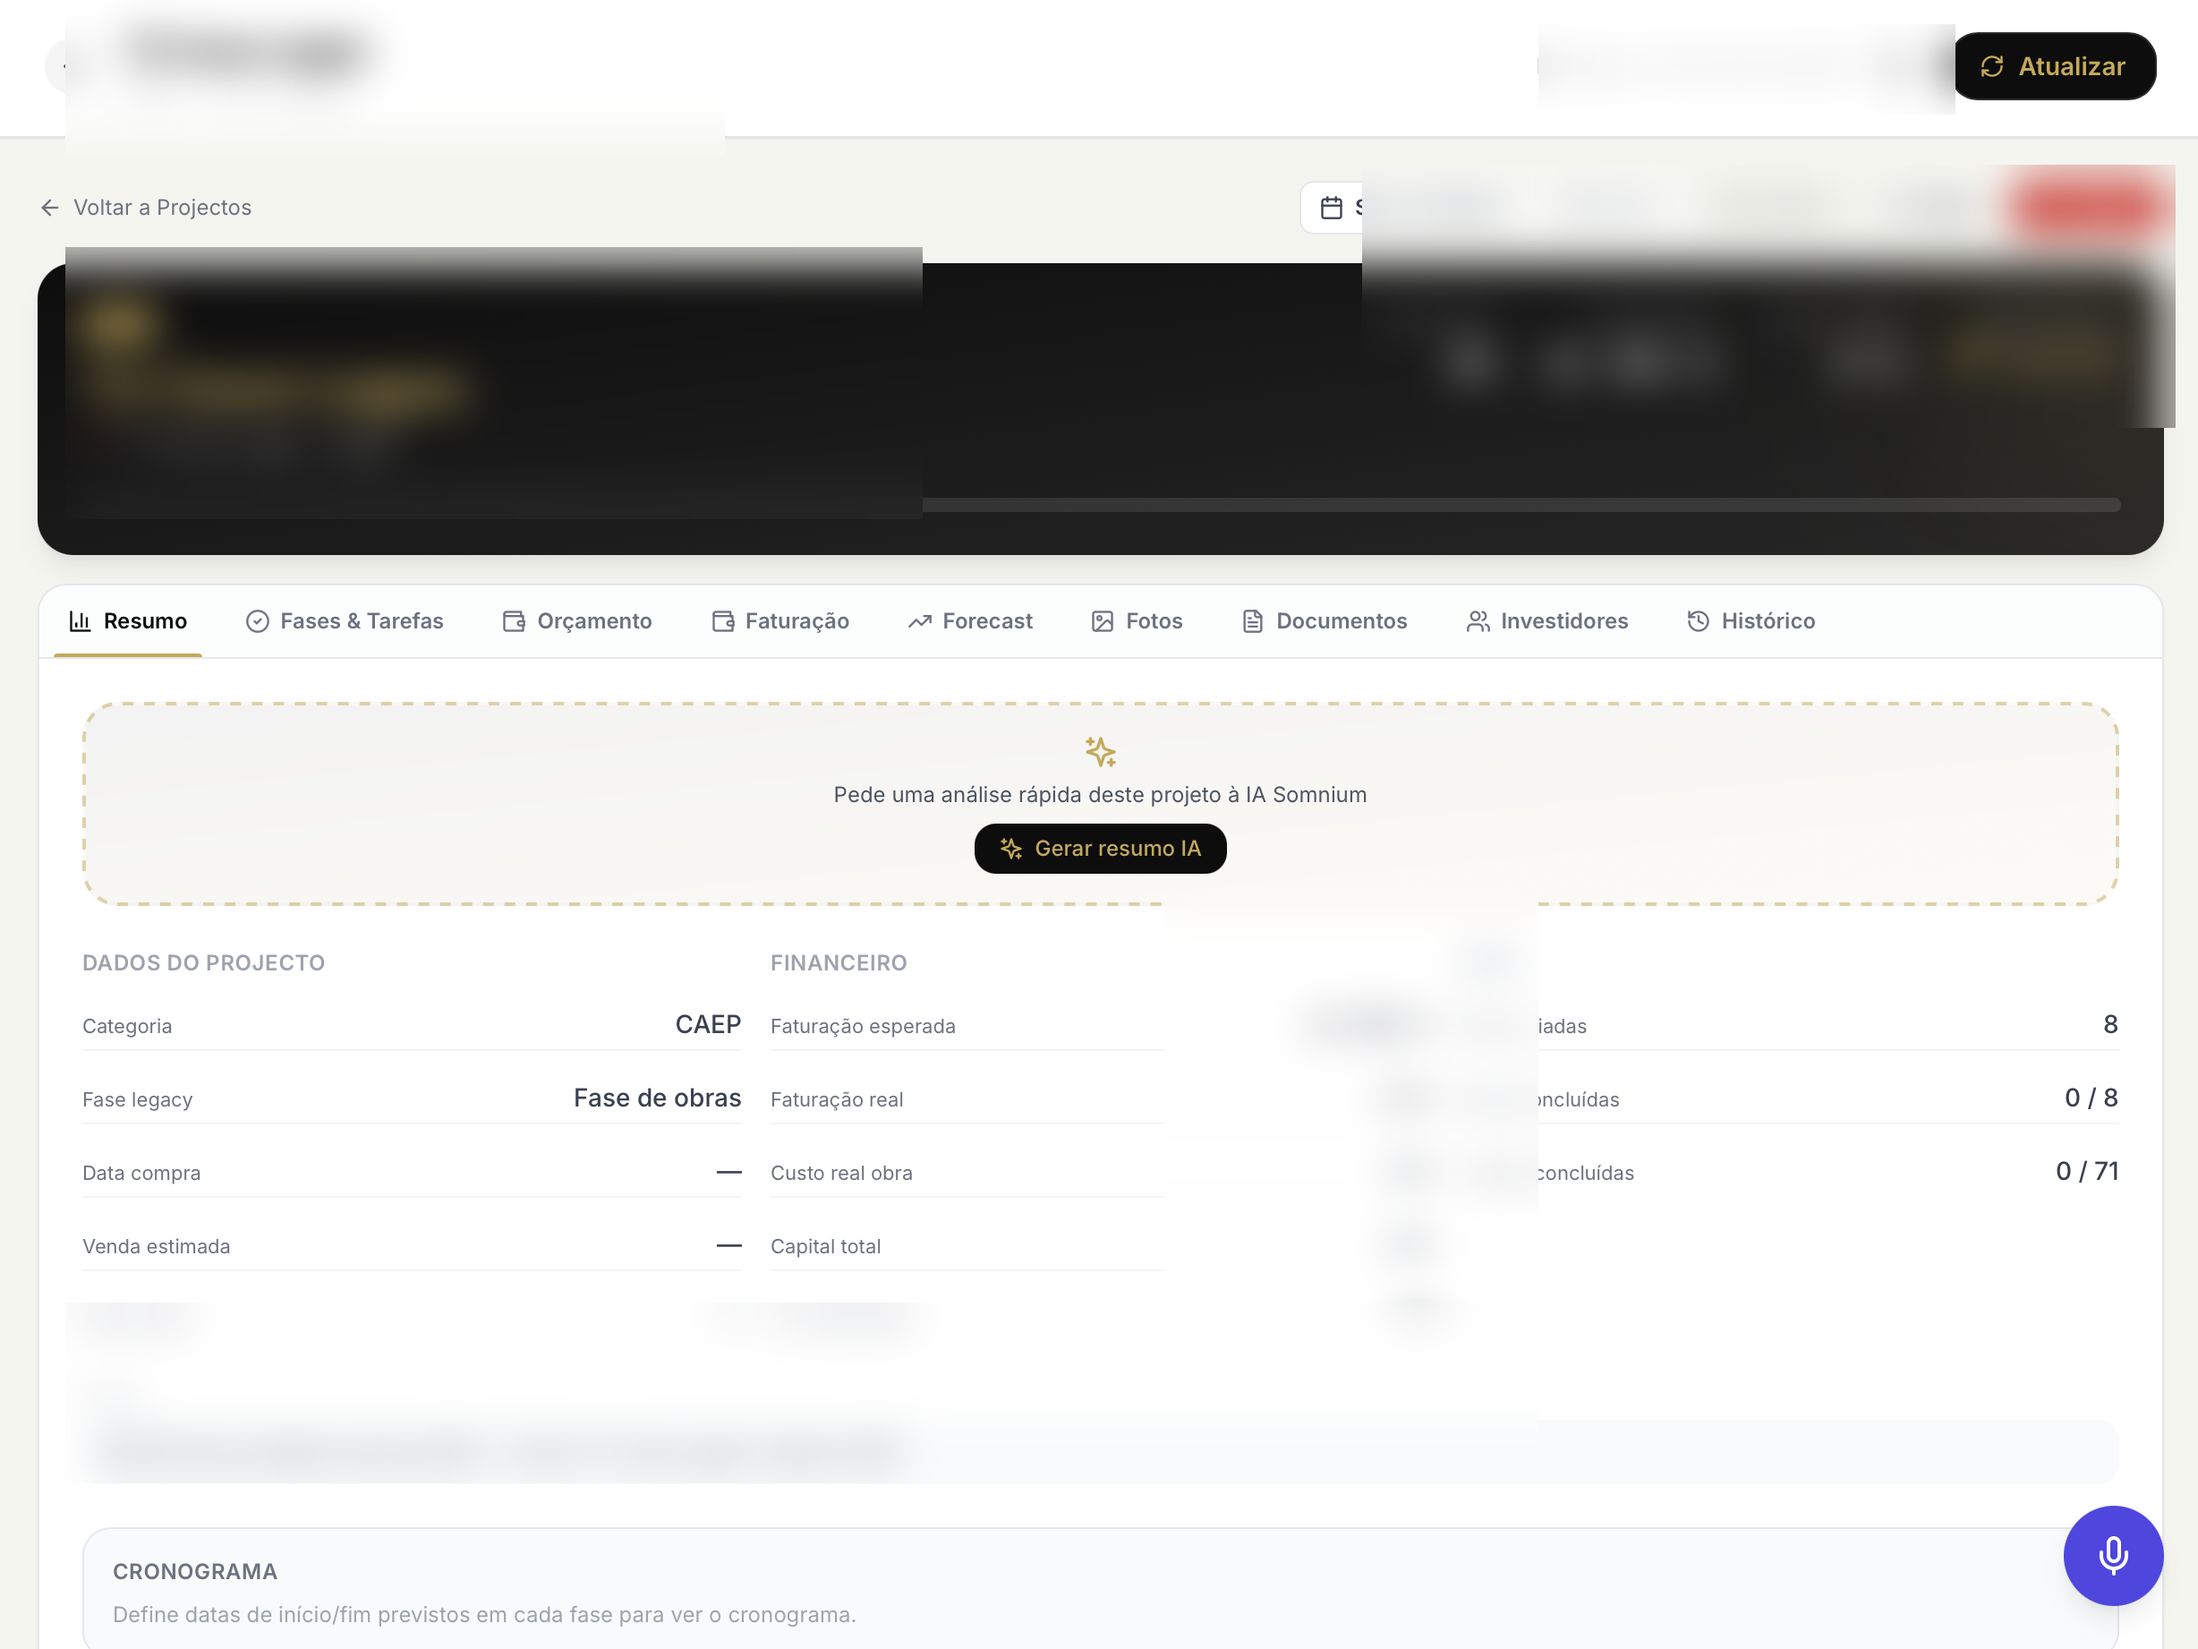
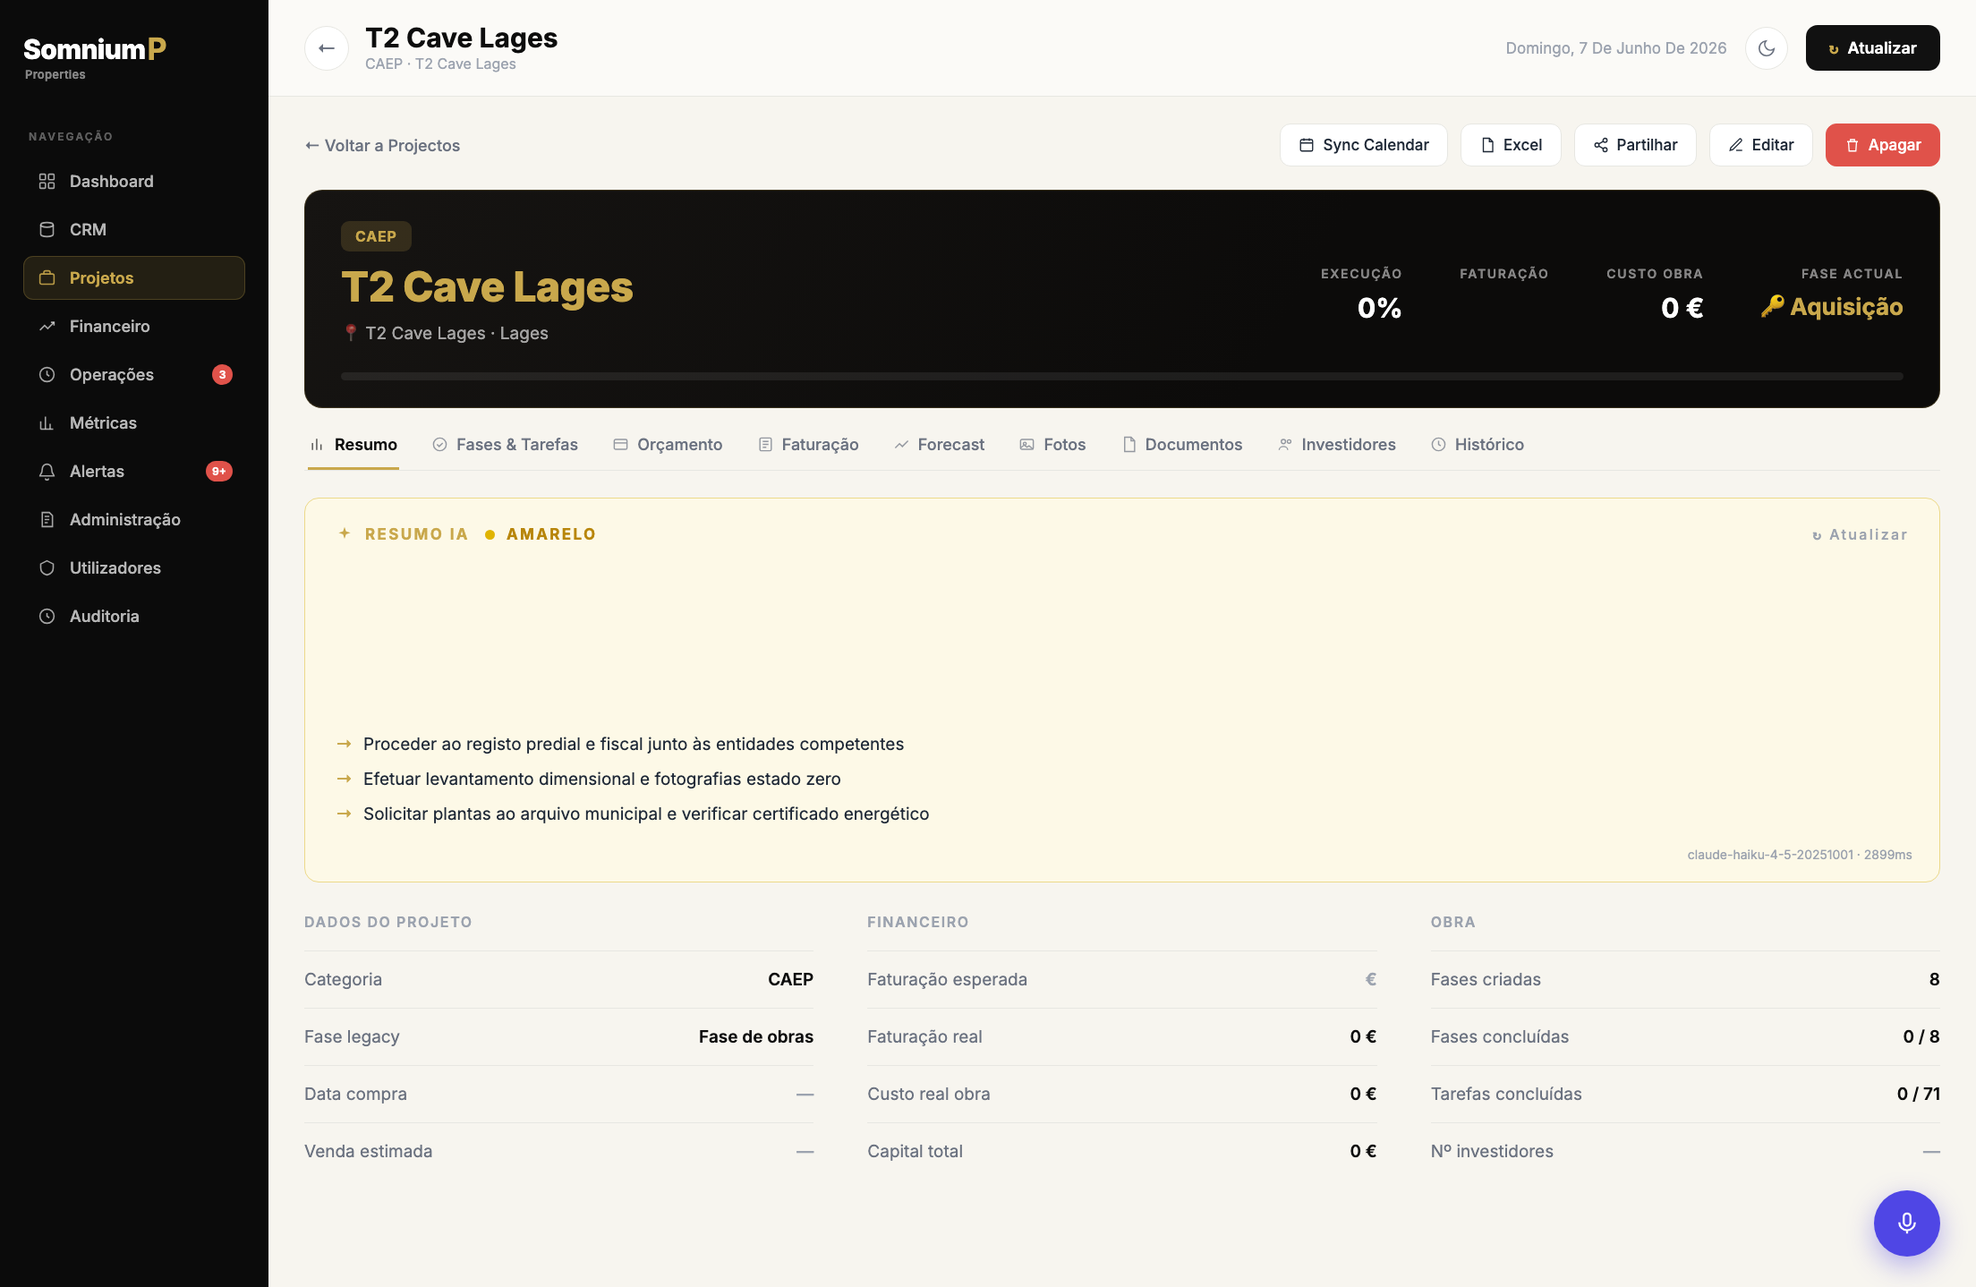
feat(landing): atualizar imagem do CRM (vista completa, sem desfoque)
- Nova imagem da plataforma (pagina de projeto com barra lateral), sem dados sensiveis
- Selo passa a "Plataforma Somnium" (nada desfocado)

diff --git a/public/investir/index.html b/public/investir/index.html
@@ -1004,7 +1004,7 @@ footer{background:var(--bg-warm);border-top:1px solid var(--line);padding:32px 5
     <!-- MOCK DASHBOARD: ficha do investidor -->
     <div style="position:relative;border:1px solid var(--line);border-radius:10px;overflow:hidden;box-shadow:0 1px 2px rgba(0,0,0,.04),0 16px 40px rgba(13,13,13,.07)">
       <img src="assets/landing/crm-dashboard.png" alt="Plataforma Somnium Properties: vista real de um projeto, com dados ocultados por privacidade" loading="lazy" style="display:block;width:100%;height:auto" />
-      <span style="position:absolute;top:12px;right:12px;font-size:9px;font-weight:600;letter-spacing:.16em;text-transform:uppercase;color:var(--gold);background:rgba(13,13,13,.82);padding:5px 10px;border-radius:99px;-webkit-backdrop-filter:blur(6px);backdrop-filter:blur(6px)">Plataforma real · dados ocultados</span>
+      <span style="position:absolute;top:12px;right:12px;font-size:9px;font-weight:600;letter-spacing:.16em;text-transform:uppercase;color:var(--gold);background:rgba(13,13,13,.82);padding:5px 10px;border-radius:99px;-webkit-backdrop-filter:blur(6px);backdrop-filter:blur(6px)">Plataforma Somnium</span>
     </div>
   </div>
 

diff --git a/somnium-investidores.html b/somnium-investidores.html
@@ -1004,7 +1004,7 @@ footer{background:var(--bg-warm);border-top:1px solid var(--line);padding:32px 5
     <!-- MOCK DASHBOARD: ficha do investidor -->
     <div style="position:relative;border:1px solid var(--line);border-radius:10px;overflow:hidden;box-shadow:0 1px 2px rgba(0,0,0,.04),0 16px 40px rgba(13,13,13,.07)">
       <img src="assets/landing/crm-dashboard.png" alt="Plataforma Somnium Properties: vista real de um projeto, com dados ocultados por privacidade" loading="lazy" style="display:block;width:100%;height:auto" />
-      <span style="position:absolute;top:12px;right:12px;font-size:9px;font-weight:600;letter-spacing:.16em;text-transform:uppercase;color:var(--gold);background:rgba(13,13,13,.82);padding:5px 10px;border-radius:99px;-webkit-backdrop-filter:blur(6px);backdrop-filter:blur(6px)">Plataforma real · dados ocultados</span>
+      <span style="position:absolute;top:12px;right:12px;font-size:9px;font-weight:600;letter-spacing:.16em;text-transform:uppercase;color:var(--gold);background:rgba(13,13,13,.82);padding:5px 10px;border-radius:99px;-webkit-backdrop-filter:blur(6px);backdrop-filter:blur(6px)">Plataforma Somnium</span>
     </div>
   </div>
 
